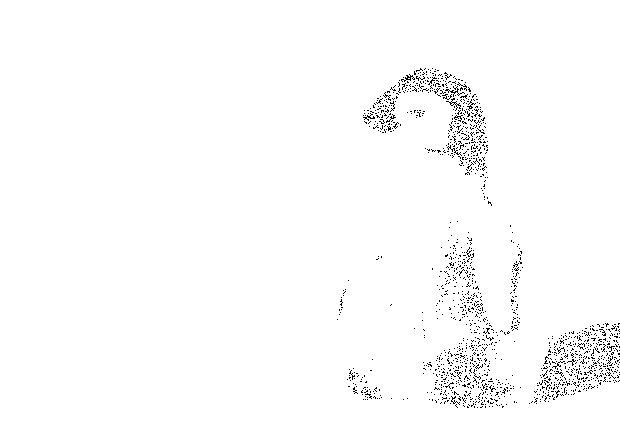
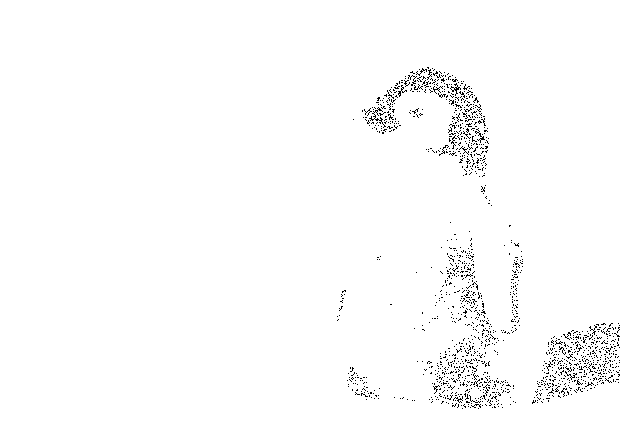
Update threshold dithering

diff --git a/examples/main.go b/examples/main.go
@@ -23,11 +23,11 @@ func main() {
 	halfgone.SaveImagePNG(inverted, "images/inverted_grayscale.png")
 
 	// Threshold dithering
-	var td = halfgone.ThresholdDitherer{Threshold: 122}.Apply(gray)
+	var td = halfgone.ThresholdDitherer{Threshold: 127}.Apply(gray)
 	halfgone.SaveImagePNG(td, "images/threshold_dithering.png")
 
 	// Random threshold dithering
-	var rtd = halfgone.RandomThresholdDitherer{MaxThreshold: 100, RNG: rng}.Apply(gray)
+	var rtd = halfgone.RandomThresholdDitherer{MaxThreshold: 200, RNG: rng}.Apply(gray)
 	halfgone.SaveImagePNG(rtd, "images/random_threshold_dithering.png")
 
 	// Importance sampling

diff --git a/dither.go b/dither.go
@@ -54,7 +54,7 @@ func (rtd RandomThresholdDitherer) Apply(gray *image.Gray) *image.Gray {
 	)
 	for x := bounds.Min.X; x < bounds.Max.X; x++ {
 		for y := bounds.Min.Y; y < bounds.Max.Y; y++ {
-			var threshold = uint8(rtd.RNG.Intn(rtd.MaxThreshold))
+			var threshold = uint8(rtd.RNG.Intn(rtd.MaxThreshold + 1))
 			if gray.GrayAt(x, y).Y > threshold {
 				dithered.SetGray(x, y, color.Gray{255}) // White
 			} else {

diff --git a/README.md b/README.md
@@ -37,7 +37,7 @@ InvertGray(gray)
 ## Threshold dithering
 
 ```go
-halfgone.ThresholdDitherer{Threshold: 122}.Apply(gray)
+halfgone.ThresholdDitherer{Threshold: 127}.Apply(gray)
 ```
 
 ![threshold_dithering](examples/images/threshold_dithering.png)
@@ -46,7 +46,7 @@ halfgone.ThresholdDitherer{Threshold: 122}.Apply(gray)
 ## Random threshold dithering
 
 ```go
-halfgone.RandomThresholdDitherer{MaxThreshold: 100, RNG: rng}.Apply(gray)
+halfgone.RandomThresholdDitherer{MaxThreshold: 255, RNG: rng}.Apply(gray)
 ```
 
 ![random_threshold_dithering](examples/images/random_threshold_dithering.png)
